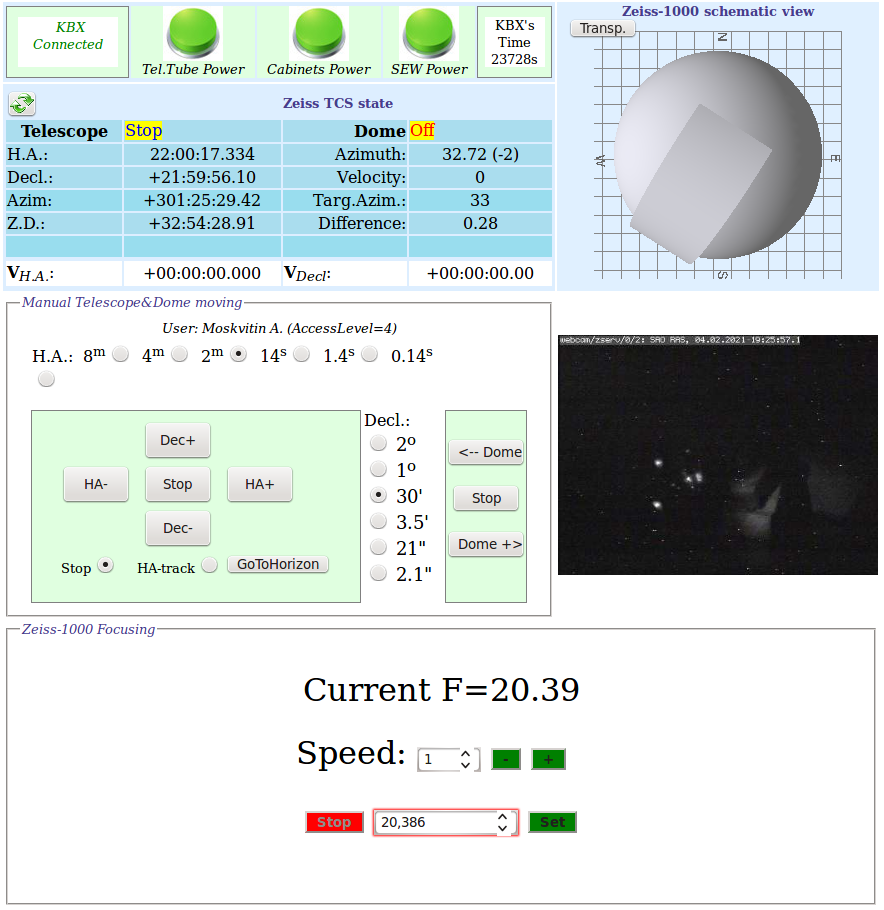
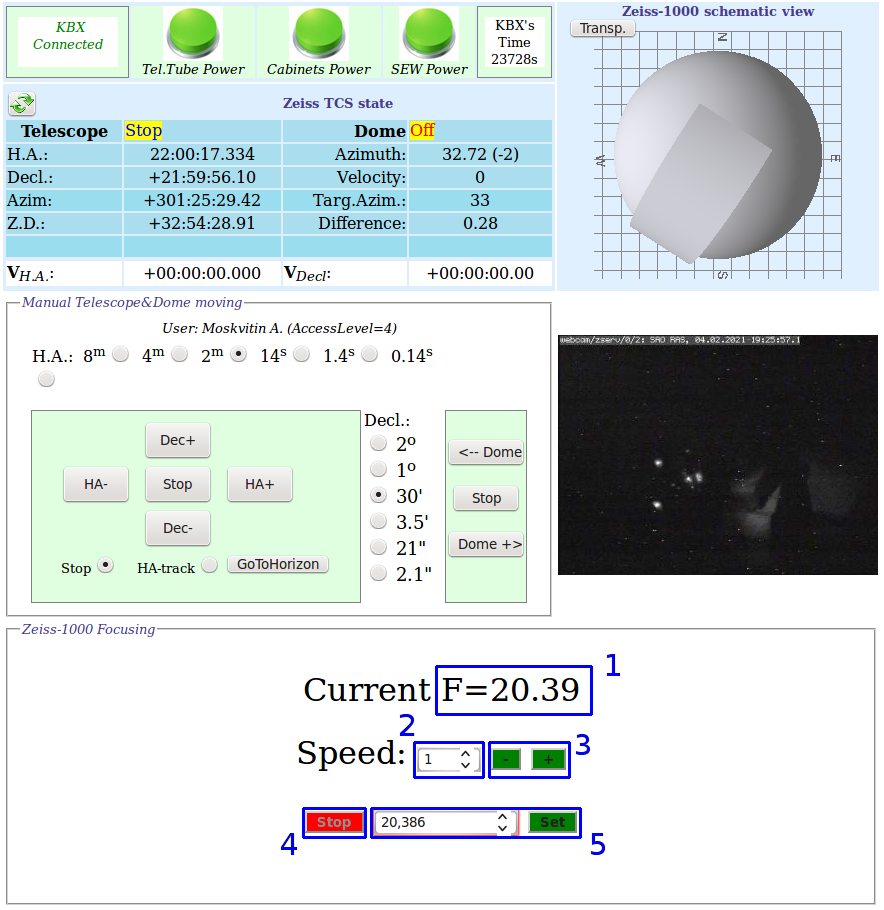
add NewFoc pt.3

Changed region(s): [[0.336, 0.7077, 0.6719, 0.9231], [0.6719, 0.9231, 0.7025, 0.9538], [0.3054, 0.9231, 0.336, 0.9538]]

diff --git a/Focus.md b/Focus.md
@@ -13,13 +13,13 @@
 
 *Предварительное значение фокуса для ПЗС фотометра (по грубой шкале): 27.*
 
-Фокусировка телескопа Цейсс-1000 \cite{Foc_Drabek} осуществляется путём перемещения вторичного зеркала. 
+[Фокусировка][Foc_Drabek] телескопа Цейсс-1000 осуществляется путём перемещения вторичного зеркала. 
 Его положение контролировалось с помощью сельсинов (электрических машин с индукционной связью, 
 служащих для синхронного поворота или вращения осей, механически не связанных друг с другом).
 С марта 2020 года вместо сельсина грубой фокусировки был установлен угловой энкодер, двигатель фокусировки 
 подключён через частотный привод. Управление фокусом осущёствляется через веб-интерфейс на странице
 [ztcs.sao.ru/~eddy/](https://ztcs.sao.ru/~eddy/), продублированый на 
-[странице управления телескопом, куполом и крышками зеркала](ztcs.sao.ru/tcs/zeiss_moxa_new.php).
+[странице управления телескопом, куполом и крышками зеркала](https://ztcs.sao.ru/tcs/zeiss_moxa_new.php).
 
 ![Веб-интерфейс управления фокусом телескопа Цейсс-1000](pic/NewFoc.png)
 
@@ -27,7 +27,7 @@
 
 Основные группы интерфейса:
 
-1. Отображение текущего значения фокуса (в мм с округлением до сотых)* 
+1. Отображение текущего значения фокуса (в мм с округлением до сотых).
 
 2. Выбор одной из скоростей (1..4) для ручного управления фокусом.
 
@@ -47,10 +47,6 @@
 поэтому в интерфейсе скорость "1" в ручном режиме не будет работать, а все тонкие перемещения выполняются
 на скорости 350 об./мин., что может приводить к погрешности установки фокусёра более 0.1 мм.
 
-
-## Процедура фокусировки
-
-
 Для хорошей фокусировки желательно уравновесить температуру подкупольного пространства с наружной. 
 Для этого необходимо заблаговременно открыть забрало телескопа.
 Значение фокуса зависит от температуры телескопа, которая меняется как от сезона к сезону, так и в течение ночи. 
@@ -62,5 +58,10 @@
 
 - неточности определения минимума фокусировочной кривой;
 
+
+## Процедура фокусировки
+
+
+[Foc_Drabek]: https://github.com/mosksao/z1000_CCDphot/tree/main/add/334_Drabek_z1000_Focus.pdf "Драбек С. В., Комаров В. В., Исследование фокусировки телескопа Цейсс-1000, Отчёт САО № 334, 2016"
 
 
